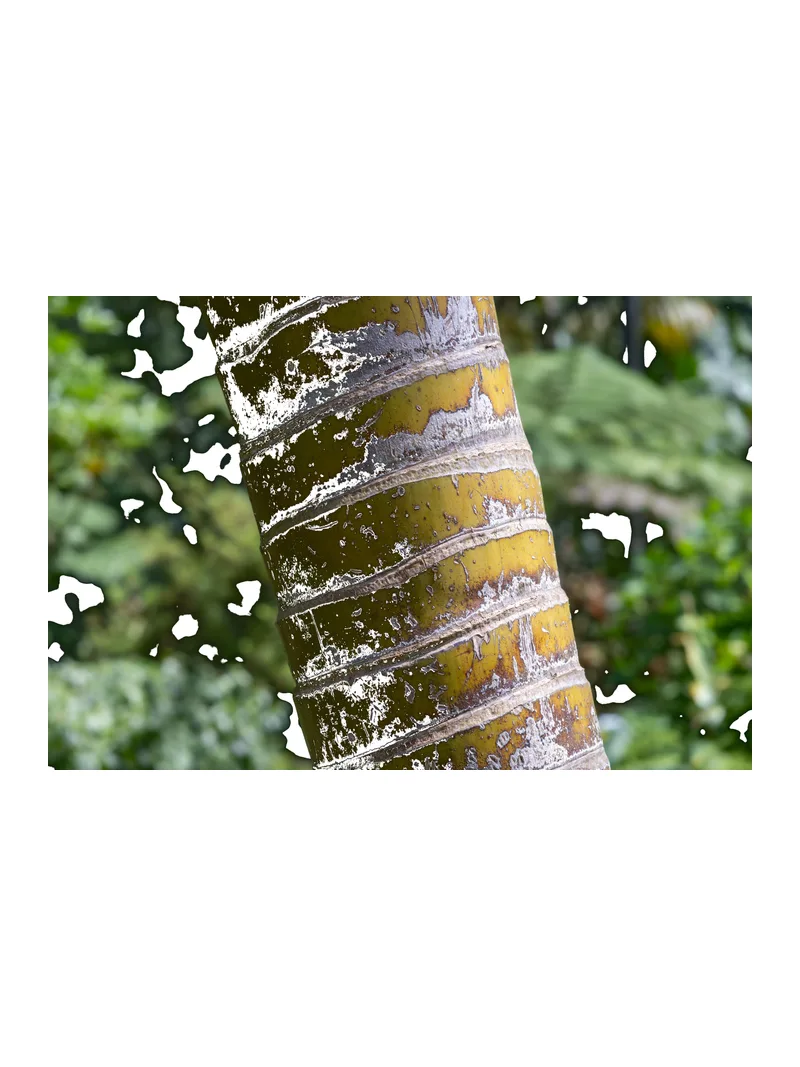
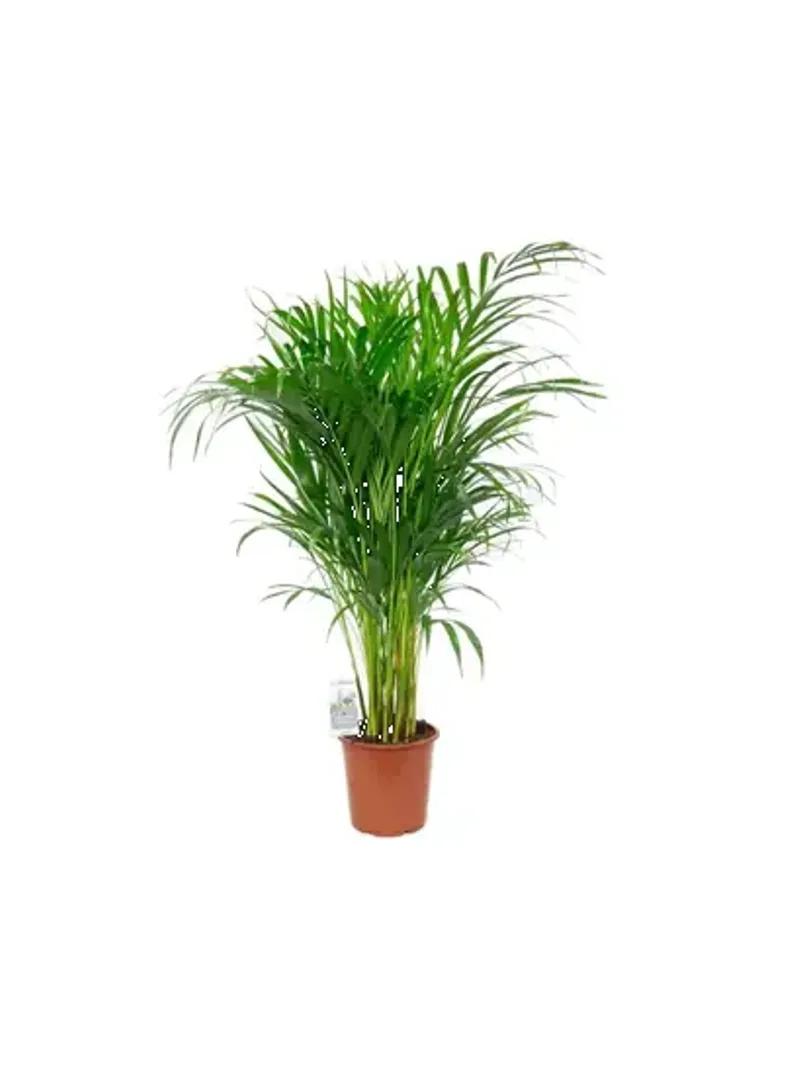
арека

diff --git a/scripts/restore-plant-photo.js b/scripts/restore-plant-photo.js
@@ -1,0 +1,37 @@
+/**
+ * Восстановить одно фото из git-оригинала каталога.
+ * node scripts/restore-plant-photo.js 8
+ */
+const fs = require("fs");
+const path = require("path");
+const { execSync } = require("child_process");
+const { normalizeToWhiteCanvas } = require("./photo-normalize-lib");
+
+const id = Number(process.argv[2]);
+if (!id) {
+  console.error("Укажите id: node scripts/restore-plant-photo.js 8");
+  process.exit(1);
+}
+
+const ROOT = path.join(__dirname, "..");
+const GIT = "7438355:plant_selector_catalog_v6_photos_lux_fixed.html";
+const OUT = path.join(ROOT, "assets", "plants", `${id}.webp`);
+const ATTR = path.join(ROOT, "assets", "plants", "attribution.json");
+
+const html = execSync(`git show ${GIT}`, { cwd: ROOT, encoding: "utf8", maxBuffer: 64 * 1024 * 1024 });
+const plant = JSON.parse(html.match(/const RAW_PLANTS = (\[[\s\S]*?\]);/)[1]).find((p) => p.id === id);
+if (!plant?.photo?.startsWith("data:image")) {
+  console.error("Оригинал не найден для id", id);
+  process.exit(1);
+}
+
+const buf = Buffer.from(plant.photo.replace(/^data:image\/\w+;base64,/, ""), "base64");
+fs.mkdirSync(path.dirname(OUT), { recursive: true });
+normalizeToWhiteCanvas(buf).then((p) => p.toFile(OUT)).then(() => {
+  console.log("Восстановлено:", OUT, "—", plant.nameRu);
+  if (fs.existsSync(ATTR)) {
+    const attr = JSON.parse(fs.readFileSync(ATTR, "utf8"));
+    delete attr[String(id)];
+    fs.writeFileSync(ATTR, JSON.stringify(attr, null, 2) + "\n");
+  }
+});

diff --git a/scripts/fetch-commons-photos.js b/scripts/fetch-commons-photos.js
@@ -19,7 +19,8 @@ const SKIP_IDS = new Set([101, 102, 103, 104, 105]);
 const DELAY_MS = 900;
 const DOWNLOAD_RETRIES = 4;
 
-const BAD_TITLE = /icon|logo|map|chart|diagram|illustration|stamp|coin|herbarium|seed|flower\s+only|cross.?section|anatomy|svg/i;
+const BAD_TITLE =
+  /icon|logo|map|chart|diagram|illustration|stamp|coin|herbarium|seed|flower\s+only|cross.?section|anatomy|svg|\btrunk\b|\bbark\b|\bstem\b|\bствол\b/i;
 
 function sleep(ms) {
   return new Promise((r) => setTimeout(r, ms));